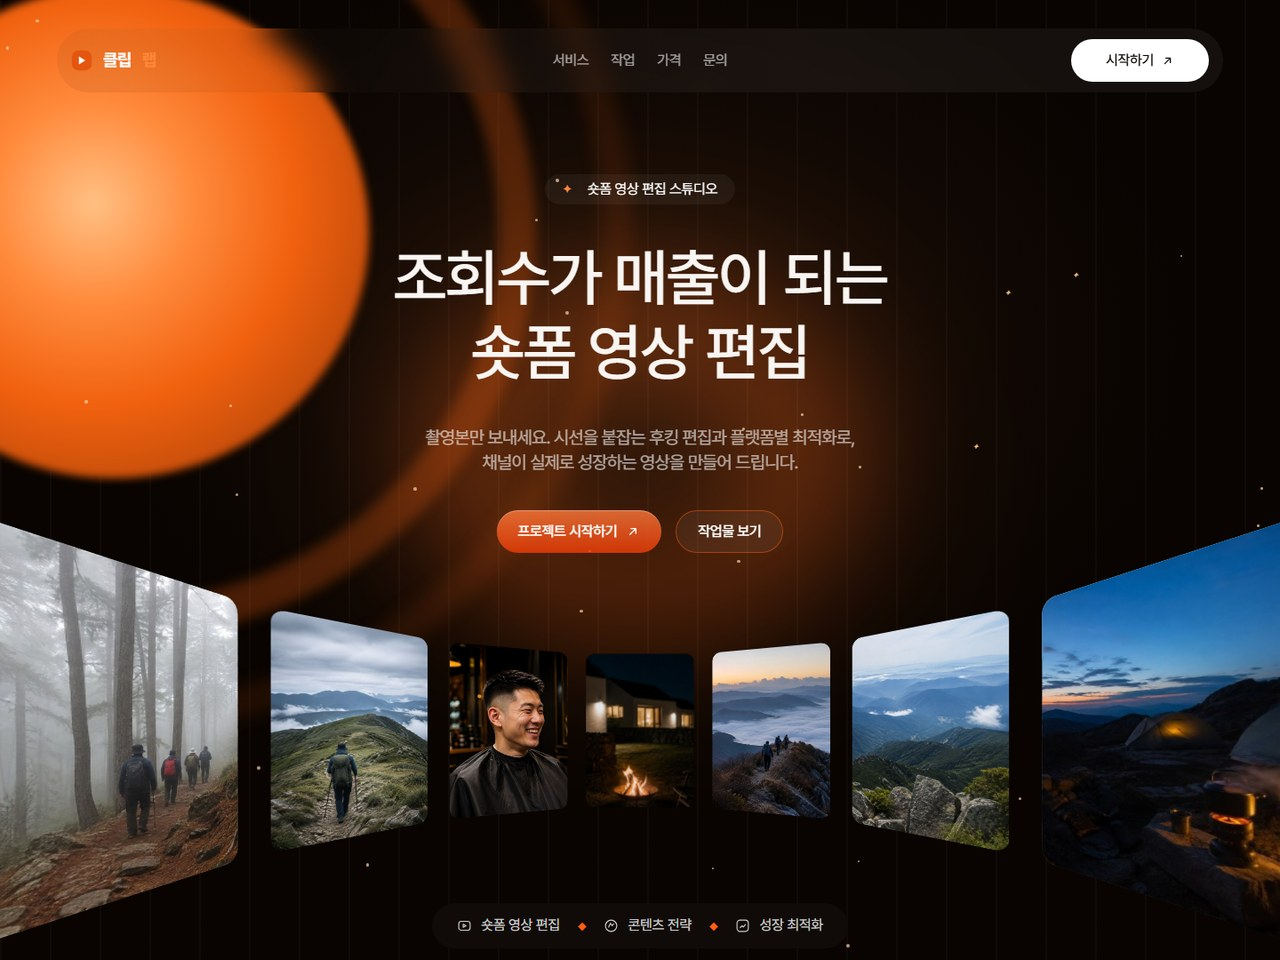
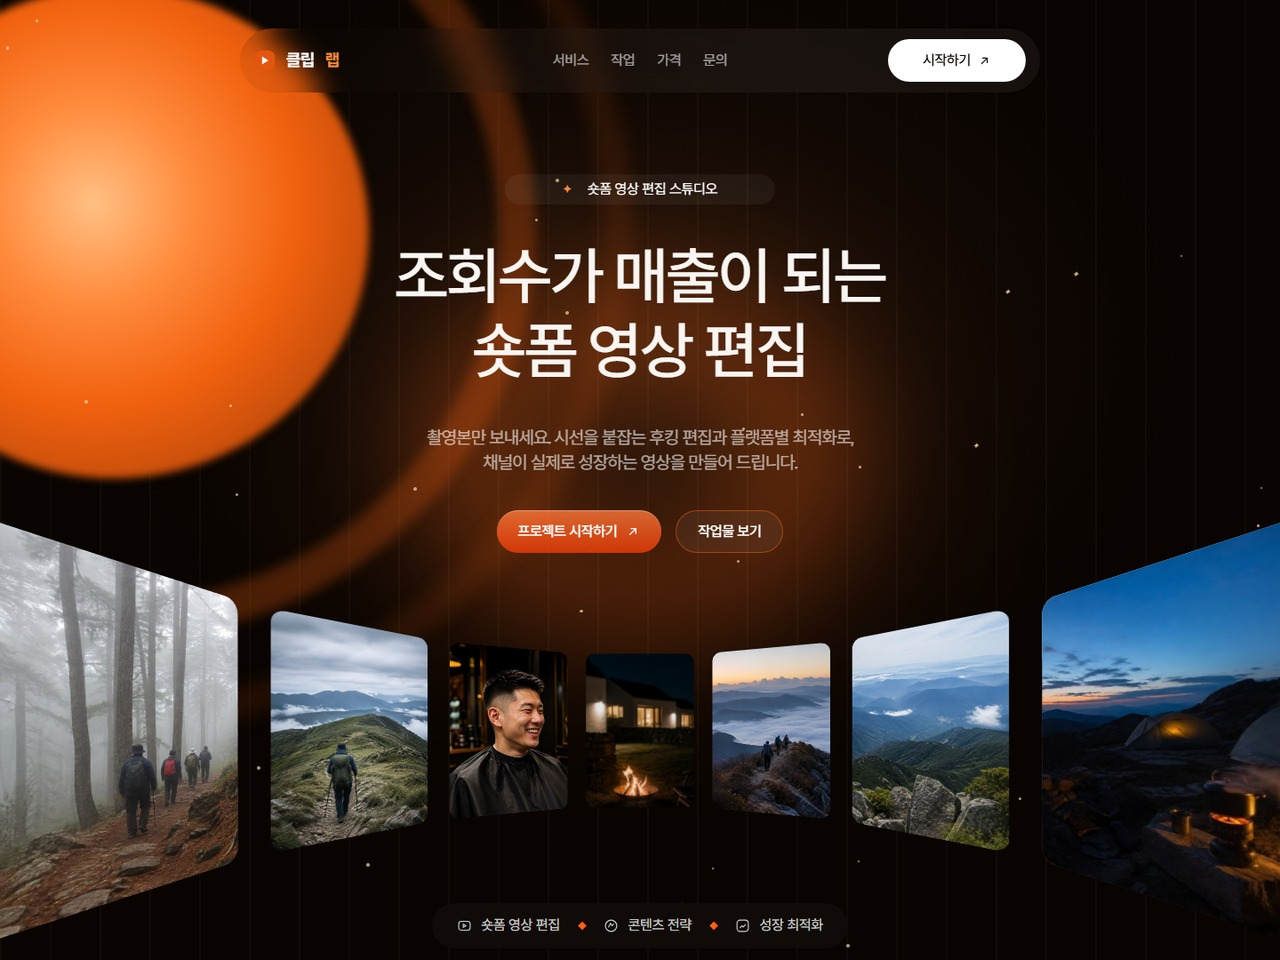
video-a probe 델타 보정 및 썸네일 갱신

diff --git a/public/templates/video-a/index.html b/public/templates/video-a/index.html
@@ -26,17 +26,18 @@ p,li,dd,figcaption{text-wrap:pretty}
 :root{--bg:#090401;--panel:#14100B;--panel2:#1B1510;--orange:#FA6114;--orange2:#FF8A3C;--brown:#4E3A30;--line:rgba(255,255,255,.09);--mute:rgba(255,255,255,.6);--mute8:rgba(255,255,255,.8);--dim:rgba(255,255,255,.3);--cream:#F8F5F2}
 body{background:var(--bg);color:#fff;font-family:"Bricolage Grotesque","Pretendard",-apple-system,BlinkMacSystemFont,sans-serif;font-size:16px;line-height:1.4;letter-spacing:-.02em}
 .num{font-family:"Bricolage Grotesque","Pretendard",sans-serif;letter-spacing:0}
-.wrap{max-width:1310px;margin:0 auto;padding:0 40px}
+.wrap{max-width:1312px;margin:0 auto;padding:0}
 ::selection{background:rgba(250,97,20,.45)}
 a:focus-visible,button:focus-visible{outline:2px solid var(--orange2);outline-offset:3px;border-radius:4px}
 
 /* 등장 — Framer appear 실측: 헤딩 y50+블러 1.5s spring(delay .3) · 카드 y30 0.4s 스태거 · 좌우 x±50 1.5s */
-.rv{opacity:0;transform:translateY(50px);transition:opacity 1.1s cubic-bezier(.22,.68,.3,1),transform 1.1s cubic-bezier(.22,.68,.3,1),filter 1.1s cubic-bezier(.22,.68,.3,1)}
+.rv{opacity:.001;transform:translateY(50px);transition:opacity 1.5s cubic-bezier(.12,.23,.5,1),transform 1.5s cubic-bezier(.12,.23,.5,1),filter 1.5s cubic-bezier(.12,.23,.5,1)}
 .rv.bl{filter:blur(14px)}
-.rv.y30{transform:translateY(34px);transition-duration:.8s,.8s,.8s}
+.rv.y30{transform:translateY(30px);transition-duration:.4s,.4s,.4s}
 .rv.xl{transform:translateX(-50px)}.rv.xr{transform:translateX(50px)}
 .rv.on{opacity:1;transform:none;filter:none}
-.d1{transition-delay:.1s}.d2{transition-delay:.2s}.d3{transition-delay:.3s}.d4{transition-delay:.4s}.d5{transition-delay:.5s}.d6{transition-delay:.6s}
+.on-load{transition-delay:.3s}
+.d1{transition-delay:0s}.d2{transition-delay:.2s}.d3{transition-delay:.4s}.d4{transition-delay:.6s}.d5{transition-delay:.8s}.d6{transition-delay:1s}
 @media(prefers-reduced-motion:reduce){*,*::before,*::after{animation:none!important;transition:none!important}.rv{opacity:1;transform:none;filter:none}}
 
 /* 카드 공통 — 실측: radius 16 · 보더 없음 · 하단 주황 블롭 rgb(250,97,20)/op .46/blur 74 */
@@ -74,9 +75,9 @@ h2.sec.sm{font-size:clamp(32px,4vw,58px)}
 .star.x4::before{content:"✦";position:absolute;inset:0;color:#FFC98F;font-size:8px;line-height:1}
 @keyframes tw{0%,100%{opacity:.15;transform:scale(.6)}50%{opacity:.9;transform:scale(1)}}
 
-/* ── 헤더: 플로팅 알약 — 실측: 1312×72 r100 · top 32 · bg 좌→우 그라데이션 + blur15 · 로고 inset 16 · 링크 16px/.6 gap25 중앙 · 우측 흰 알약 155×48 ── */
+/* ── 헤더: 플로팅 알약 — 실측: 900×72 r100 · top 32 · bg 좌→우 그라데이션 + blur15 · 로고 inset 16 · 링크 16px/.6 gap25 중앙 · 우측 흰 알약 155×48 ── */
 header{position:fixed;top:32px;left:0;right:0;z-index:50}
-.hbar{position:relative;max-width:1312px;margin:0 auto;height:72px;padding:0 16px;display:flex;align-items:center;justify-content:space-between;border-radius:100px;background:linear-gradient(90deg,rgba(0,0,0,.05) 0%,rgba(255,255,255,.05) 64.6%);backdrop-filter:blur(15px)}
+.hbar{position:relative;max-width:900px;margin:0 auto;height:72px;padding:0 16px;display:flex;align-items:center;justify-content:space-between;border-radius:100px;background:linear-gradient(90deg,rgba(0,0,0,.05) 0%,rgba(255,255,255,.05) 64.6%);backdrop-filter:blur(15px)}
 .logo{display:inline-flex;align-items:center;gap:12px;font-size:19px;font-weight:700;letter-spacing:-.03em}
 .logo em{font-style:normal;color:var(--orange2)}
 .logo svg{width:24px;height:24px}
@@ -107,7 +108,7 @@ nav a:hover{color:#fff}
 .hero .gring.g1{filter:blur(60px)}
 .hero .gring.g2{filter:blur(100px);opacity:.75}
 .hero-inner{position:relative;display:flex;flex-direction:column;align-items:center;text-align:center;padding-top:196px}
-.hero .chip{height:34px;padding:0 20px;font-size:16px;letter-spacing:-.02em;font-weight:400;color:#fff}
+.hero .chip{height:34px;min-width:304px;padding:6px 16px;border-radius:100px;font-size:16px;letter-spacing:-.02em;font-weight:400;color:#fff;justify-content:center}
 .hero .chip::before,.hero .chip::after{display:none}
 .hero .chip .sp{color:var(--orange2);font-size:13px}
 .hero h1{margin-top:40px;font-size:70px;line-height:84px;letter-spacing:-2.1px;font-weight:500;color:var(--cream)}
@@ -140,7 +141,7 @@ section{position:relative}
 .stage{position:absolute;left:0;right:0;top:0;height:470px;pointer-events:none}
 .stage .plane{position:absolute;left:50%;top:0;transform:translateX(-50%);width:100vw;height:470px;clip-path:polygon(27% 0,73% 0,100% 100%,0 100%);background:linear-gradient(180deg,rgba(52,24,10,.55) 0%,rgba(24,12,6,.26) 38%,rgba(9,4,1,0) 78%)}
 .stage .horizon{position:absolute;left:50%;top:-2px;transform:translateX(-50%);width:680px;height:160px;background:radial-gradient(50% 100% at 50% 0%,rgba(255,132,52,.26),rgba(9,4,1,0) 72%);filter:blur(8px)}
-.prob-grid{margin-top:64px;display:grid;grid-template-columns:repeat(3,1fr);gap:18px}
+.prob-grid{margin-top:64px;display:grid;grid-template-columns:repeat(3,1fr);gap:10px}
 .pcard{position:relative;overflow:hidden;border-radius:16px;background:rgba(0,0,0,.2);border:0;padding:32px}
 .pcard::after{content:"";position:absolute;left:8%;right:8%;bottom:-78px;height:109px;background:#FA6114;opacity:.46;filter:blur(74px);pointer-events:none}
 .pcard::before{content:"";position:absolute;left:28%;width:359px;max-width:84%;top:-86px;height:109px;background:#FA6114;opacity:.28;filter:blur(49px);pointer-events:none;z-index:1}
@@ -197,7 +198,7 @@ section{position:relative}
 .fix-head{display:flex;align-items:flex-end;justify-content:space-between;gap:40px}
 .fix-head .sub{margin-top:22px;max-width:520px}
 .hr{margin:64px 0;height:1px;background:linear-gradient(90deg,transparent,rgba(255,255,255,.14),transparent)}
-.stat-grid{display:grid;grid-template-columns:repeat(4,1fr);gap:24px}
+.stat-grid{display:grid;grid-template-columns:repeat(4,1fr);gap:8px}
 .scard{position:relative;overflow:hidden;border-radius:16px;background:#100B08;border:0;padding:32px 24px;min-height:317px;display:flex;flex-direction:column}
 .scard::after{content:"";position:absolute;left:8%;right:8%;bottom:-58px;height:110px;background:#FA6114;opacity:.46;filter:blur(74px);pointer-events:none}
 .scard .lbl{font-size:20px;line-height:28px;letter-spacing:-.8px;font-weight:400;color:var(--mute8)}
@@ -216,7 +217,7 @@ section{position:relative}
 .plat .slot{flex:1;margin:24px -6px;border-radius:14px;overflow:hidden;position:relative;display:grid;place-items:center;background:radial-gradient(60% 45% at 50% 90%,rgba(224,88,16,.18),rgba(9,4,1,0) 75%)}
 .plat .slot img{width:204px;height:204px;object-fit:contain;filter:drop-shadow(0 24px 40px rgba(0,0,0,.6))}
 .plat p{font-size:15px;color:var(--mute8);line-height:1.5;max-width:300px;margin:0 auto}
-.mega{margin-top:96px;max-width:1094px;margin-left:auto;margin-right:auto;border-radius:16px;position:relative;overflow:hidden;background:#0D0805;border:0;padding:48px}
+.mega{margin-top:96px;max-width:1090px;height:827px;margin-left:auto;margin-right:auto;border-radius:16px;position:relative;overflow:hidden;background:#0D0805;border:0;padding:48px}
 .mega .bgimg{position:absolute;inset:0;width:100%;height:100%;object-fit:cover}
 .mega .edge{position:absolute;top:0;right:0;bottom:0;width:42%;background:linear-gradient(90deg,rgba(13,8,5,0),rgba(178,46,10,.55) 60%,rgba(224,88,16,.75));mask-image:linear-gradient(90deg,transparent,#000 40%)}
 .mega .edge::after{content:"";position:absolute;inset:0;background:repeating-linear-gradient(90deg,rgba(0,0,0,.1) 0 3px,transparent 3px 60px)}
@@ -262,7 +263,9 @@ section{position:relative}
 .res-grid{margin-top:64px;display:grid;grid-template-columns:1fr 1fr;gap:24px}
 .res-grid.three{grid-template-columns:repeat(3,1fr);margin-top:24px}
 .rcard{border-radius:16px;background:#100B08;border:0;padding:16px 16px 23px}
+.res-grid:not(.three) .rcard{min-height:524px}
 .rcard .im{border-radius:8px;overflow:hidden;aspect-ratio:16/9;position:relative}
+.res-grid:not(.three) .rcard .im{height:358px;aspect-ratio:auto}
 .rcard .im img{width:100%;height:100%;object-fit:cover}
 /* 핸들 칩 — 레퍼런스처럼 대형·소형 모두 이미지 위 좌하단 오버레이 */
 .rcard .im{position:relative}
@@ -277,7 +280,7 @@ section{position:relative}
 
 /* ── 6 프로세스 — 모의 UI 카드 3장 (실측 421×469) ── */
 .proc-grid{margin-top:64px;display:grid;grid-template-columns:repeat(3,1fr);gap:24px}
-.pr{position:relative;overflow:hidden;border-radius:16px;border:0;background:#100B08;padding:24px 28px 32px}
+.pr{position:relative;overflow:hidden;border-radius:16px;border:0;background:#090401;padding:32px;min-height:469px}
 .pr::after{content:"";position:absolute;left:8%;right:8%;bottom:-58px;height:110px;background:#FA6114;opacity:.46;filter:blur(74px);pointer-events:none}
 .pr .ui{height:275px;border-radius:14px;margin-bottom:24px;position:relative;overflow:hidden;background:rgba(9,4,1,.5);border:1px solid rgba(255,255,255,.06)}
 .pr h3{font-size:28px;line-height:28px;font-weight:500;letter-spacing:-.84px;color:var(--cream);margin-bottom:12px}
@@ -319,22 +322,22 @@ section{position:relative}
 .tes-head .avas{display:flex}
 .tes-head .avas img{width:60px;height:60px;border-radius:50%;object-fit:cover;border:2px solid #090401}
 .tes-head .avas img+img{margin-left:-14px}
-.tes-grid{margin-top:64px;display:grid;grid-template-columns:1fr 1fr 1fr;gap:24px;align-items:stretch}
+.tes-grid{margin-top:64px;display:grid;grid-template-columns:1fr 1fr 1fr;gap:24px;align-items:start}
 .tstat{border-radius:16px;background:#100B08;border:0;padding:20px;display:flex;flex-direction:column;gap:0}
-.tstat .cell{flex:1;border-radius:8px;background:rgba(255,255,255,.05);padding:24px 26px;position:relative}
+.tstat .cell{height:142px;border-radius:8px;background:rgba(255,255,255,.05);padding:36px;position:relative}
 .tstat .cell+.cell{margin-top:18px}
 .tstat .cell::before{content:"";position:absolute;left:26px;right:26px;top:-10px;height:1px;background:rgba(255,255,255,.1)}
 .tstat .cell:first-child::before{display:none}
-.tstat .v{font-size:40px;font-weight:600}
+.tstat .v{font-size:60px;line-height:72px;font-weight:500}
 .tstat .v em{font-style:normal;background:linear-gradient(180deg,#FFB182,#F1610F);-webkit-background-clip:text;background-clip:text;color:transparent}
-.tstat .l{margin-top:10px;font-size:14px;color:var(--mute)}
-.tstat .cir{position:absolute;right:22px;top:26px;width:40px;height:40px;border-radius:50%;background:rgba(9,4,1,.6);border:1px solid rgba(255,255,255,.14);display:grid;place-items:center}
+.tstat .l{margin-top:0;font-size:16px;line-height:22.4px;color:var(--mute8)}
+.tstat .cir{position:absolute;right:36px;top:36px;width:48px;height:48px;border-radius:50%;background:rgba(9,4,1,.6);border:1px solid rgba(255,255,255,.14);display:grid;place-items:center}
 .tstat .cir svg{width:17px;height:17px;stroke:#fff;fill:none;stroke-width:1.8;stroke-linecap:round;stroke-linejoin:round}
-.tphoto{border-radius:16px;overflow:hidden;position:relative;min-height:420px}
+.tphoto{border-radius:16px;overflow:hidden;position:relative;height:380px}
 .tphoto img{position:absolute;inset:0;width:100%;height:100%;object-fit:cover}
 .tphoto .who{position:absolute;left:18px;bottom:16px;display:inline-flex;align-items:center;gap:8px;font-size:13px;font-weight:500;padding:7px 14px;border-radius:100px;background:rgba(9,4,1,.55);backdrop-filter:blur(6px)}
 .tphoto .who i{width:24px;height:24px;border-radius:50%;background:linear-gradient(135deg,#DCEAD3,#8FBF8A)}
-.tquote{position:relative;overflow:hidden;border-radius:16px;background:#100B08;border:0;padding:24px;display:flex;flex-direction:column}
+.tquote{position:relative;overflow:hidden;border-radius:16px;background:#100B08;border:0;padding:24px;display:flex;flex-direction:column;height:380px}
 .tquote::after{content:"";position:absolute;left:8%;right:8%;bottom:-58px;height:110px;background:#FA6114;opacity:.46;filter:blur(74px);pointer-events:none}
 .tquote .stars5{color:#FFC531;font-size:19px;letter-spacing:4px}
 .tquote blockquote{margin-top:24px;font-size:20px;line-height:24px;font-weight:500;letter-spacing:-.8px;color:var(--mute8)}
@@ -344,7 +347,7 @@ section{position:relative}
 
 /* ── 8 가격 ── */
 .price-grid{margin-top:64px;display:grid;grid-template-columns:repeat(3,1fr);gap:24px;align-items:stretch}
-.plan{position:relative;overflow:hidden;border-radius:16px;background:rgba(0,0,0,.4);border:1px solid rgba(255,255,255,.06);padding:32px;display:flex;flex-direction:column}
+.plan{position:relative;overflow:hidden;border-radius:16px;background:rgba(0,0,0,.4);border:1px solid rgba(255,255,255,.06);padding:32px;min-height:676px;display:flex;flex-direction:column}
 .plan::after{content:"";position:absolute;left:8%;right:8%;bottom:-58px;height:110px;background:#FA6114;opacity:.46;filter:blur(74px);pointer-events:none}
 .plan.hot{background:#100B08;border-color:rgba(250,97,20,.8)}
 .plan h3{font-size:32px;line-height:32px;font-weight:500}
@@ -364,9 +367,10 @@ section{position:relative}
 .faq-grid{display:grid;grid-template-columns:1fr 640px;gap:80px;align-items:start}
 .faq-grid .sub{margin-top:22px;max-width:400px}
 .acc{display:flex;flex-direction:column;gap:16px}
-.q{border-radius:16px;background:#100B08;border:1px solid rgba(255,255,255,.06);overflow:hidden;transition:border-color .25s}
-.q.open{border-color:rgba(255,255,255,.22)}
-.q>button{width:100%;display:flex;align-items:center;justify-content:space-between;gap:20px;padding:24px 28px;font-size:24px;line-height:24px;font-weight:400;color:var(--mute8);text-align:left}
+.q{border-radius:16px;background:linear-gradient(180deg,rgba(255,255,255,.04),rgba(255,255,255,.02));border:0;overflow:hidden;padding:32px;transition:border-color .25s}
+.q.open{min-height:179px}
+.q.open{border-color:transparent}
+.q>button{width:100%;display:flex;align-items:center;justify-content:space-between;gap:20px;padding:0;font-size:24px;line-height:24px;font-weight:400;color:var(--mute8);text-align:left}
 .q .pm{flex:none;width:22px;height:22px;position:relative}
 .q .pm::before,.q .pm::after{content:"";position:absolute;left:50%;top:50%;background:#fff;transform:translate(-50%,-50%);transition:transform .3s}
 .q .pm::before{width:14px;height:2px}
@@ -375,7 +379,7 @@ section{position:relative}
 .q .a{display:grid;grid-template-rows:0fr;transition:grid-template-rows .4s cubic-bezier(.22,.68,.3,1)}
 .q.open .a{grid-template-rows:1fr}
 .q .a>div{overflow:hidden}
-.q .a p{padding:0 28px 26px;font-size:15.5px;line-height:1.6;color:var(--mute)}
+.q .a p{padding:24px 0 0;font-size:16px;line-height:22.4px;color:var(--mute)}
 
 /* ── 10 편집 툴 — 실측: 한 줄 수평 배치, 아이콘 사이 연결선, 중앙 주황 글로우 + 동심 링, 라벨 없음, 좌우 끝은 화면 밖으로 ── */
 .tools{overflow:clip;padding-bottom:220px}
@@ -396,12 +400,12 @@ section{position:relative}
 .t6{background:linear-gradient(160deg,#241C4E,#0E0A22);color:#9F8CFF}
 
 /* ── 11 CTA + 푸터 ── */
-.cta-panel{border-radius:16px;position:relative;overflow:hidden;background:linear-gradient(90deg,#150603 0%,#1D0804 45%,#2B0A04 100%);border:1px solid var(--line);padding:110px 60px;text-align:center}
+.cta-panel{border-radius:16px;position:relative;overflow:hidden;background:linear-gradient(90deg,#150603 0%,#1D0804 45%,#2B0A04 100%);border:0;padding:44px 0;text-align:center;min-height:494px}
 .cta-panel .edge{position:absolute;top:0;right:0;bottom:0;width:46%;background:linear-gradient(90deg,rgba(12,7,3,0),rgba(150,32,8,.55) 55%,rgba(224,88,16,.8));mask-image:linear-gradient(90deg,transparent,#000 45%)}
 .cta-panel .edge::after{content:"";position:absolute;inset:0;background:repeating-linear-gradient(90deg,rgba(0,0,0,.2) 0 3px,transparent 3px 56px)}
 .cta-in{position:relative;display:flex;flex-direction:column;align-items:center;gap:0}
-.cta-in h2{font-size:clamp(34px,4vw,58px);line-height:1.12;letter-spacing:-.03em;font-weight:500}
-.cta-in .sub{margin-top:20px;max-width:480px}
+.cta-in h2{font-size:72px;line-height:79.2px;letter-spacing:-.03em;font-weight:500}
+.cta-in .sub{margin-top:20px;max-width:620px;font-size:20px;line-height:24px;font-weight:500;color:var(--mute8)}
 .cta-in .btn{margin-top:38px}
 .cta-in .more{margin-top:22px;font-size:14px;color:var(--mute);text-decoration:underline;text-underline-offset:4px}
 .cta-in .more:hover{color:#fff}
@@ -455,7 +459,10 @@ footer::after{content:"";position:absolute;left:0;right:0;bottom:0;height:55%;ba
   .marq{gap:8px}
   .wk{width:264px;height:474px}
   .mega{padding:56px 26px}
+  .mega{height:auto;min-height:0}
   .cta-panel{padding:70px 26px}
+  .cta-in h2{font-size:38px;line-height:1.18}
+  .cta-in .sub{font-size:16px;line-height:1.5}
   .f-top{flex-direction:column;gap:44px}
   .f-cols{gap:48px;flex-wrap:wrap}
   .ghostword{font-size:150px;bottom:-64px}
